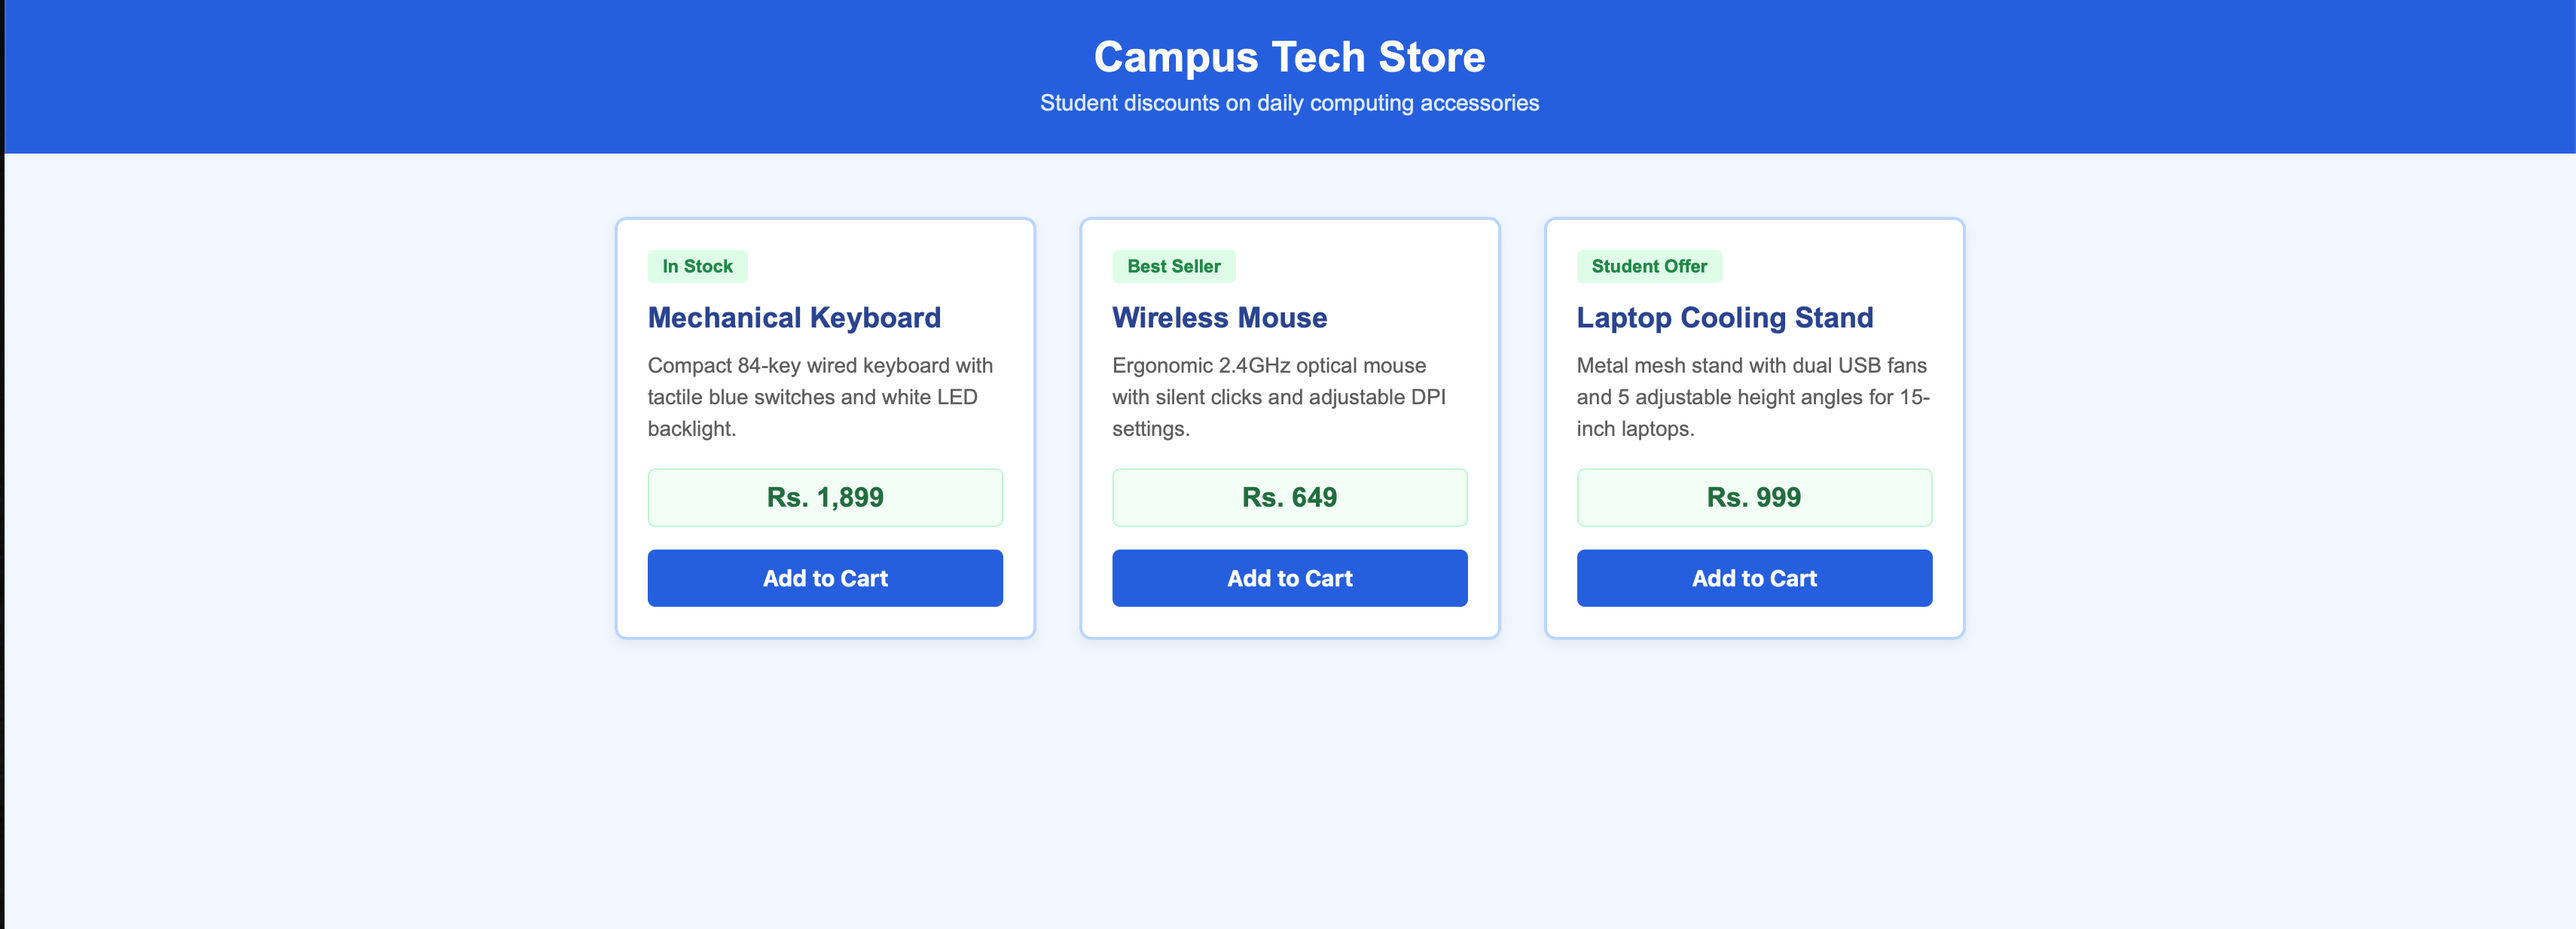
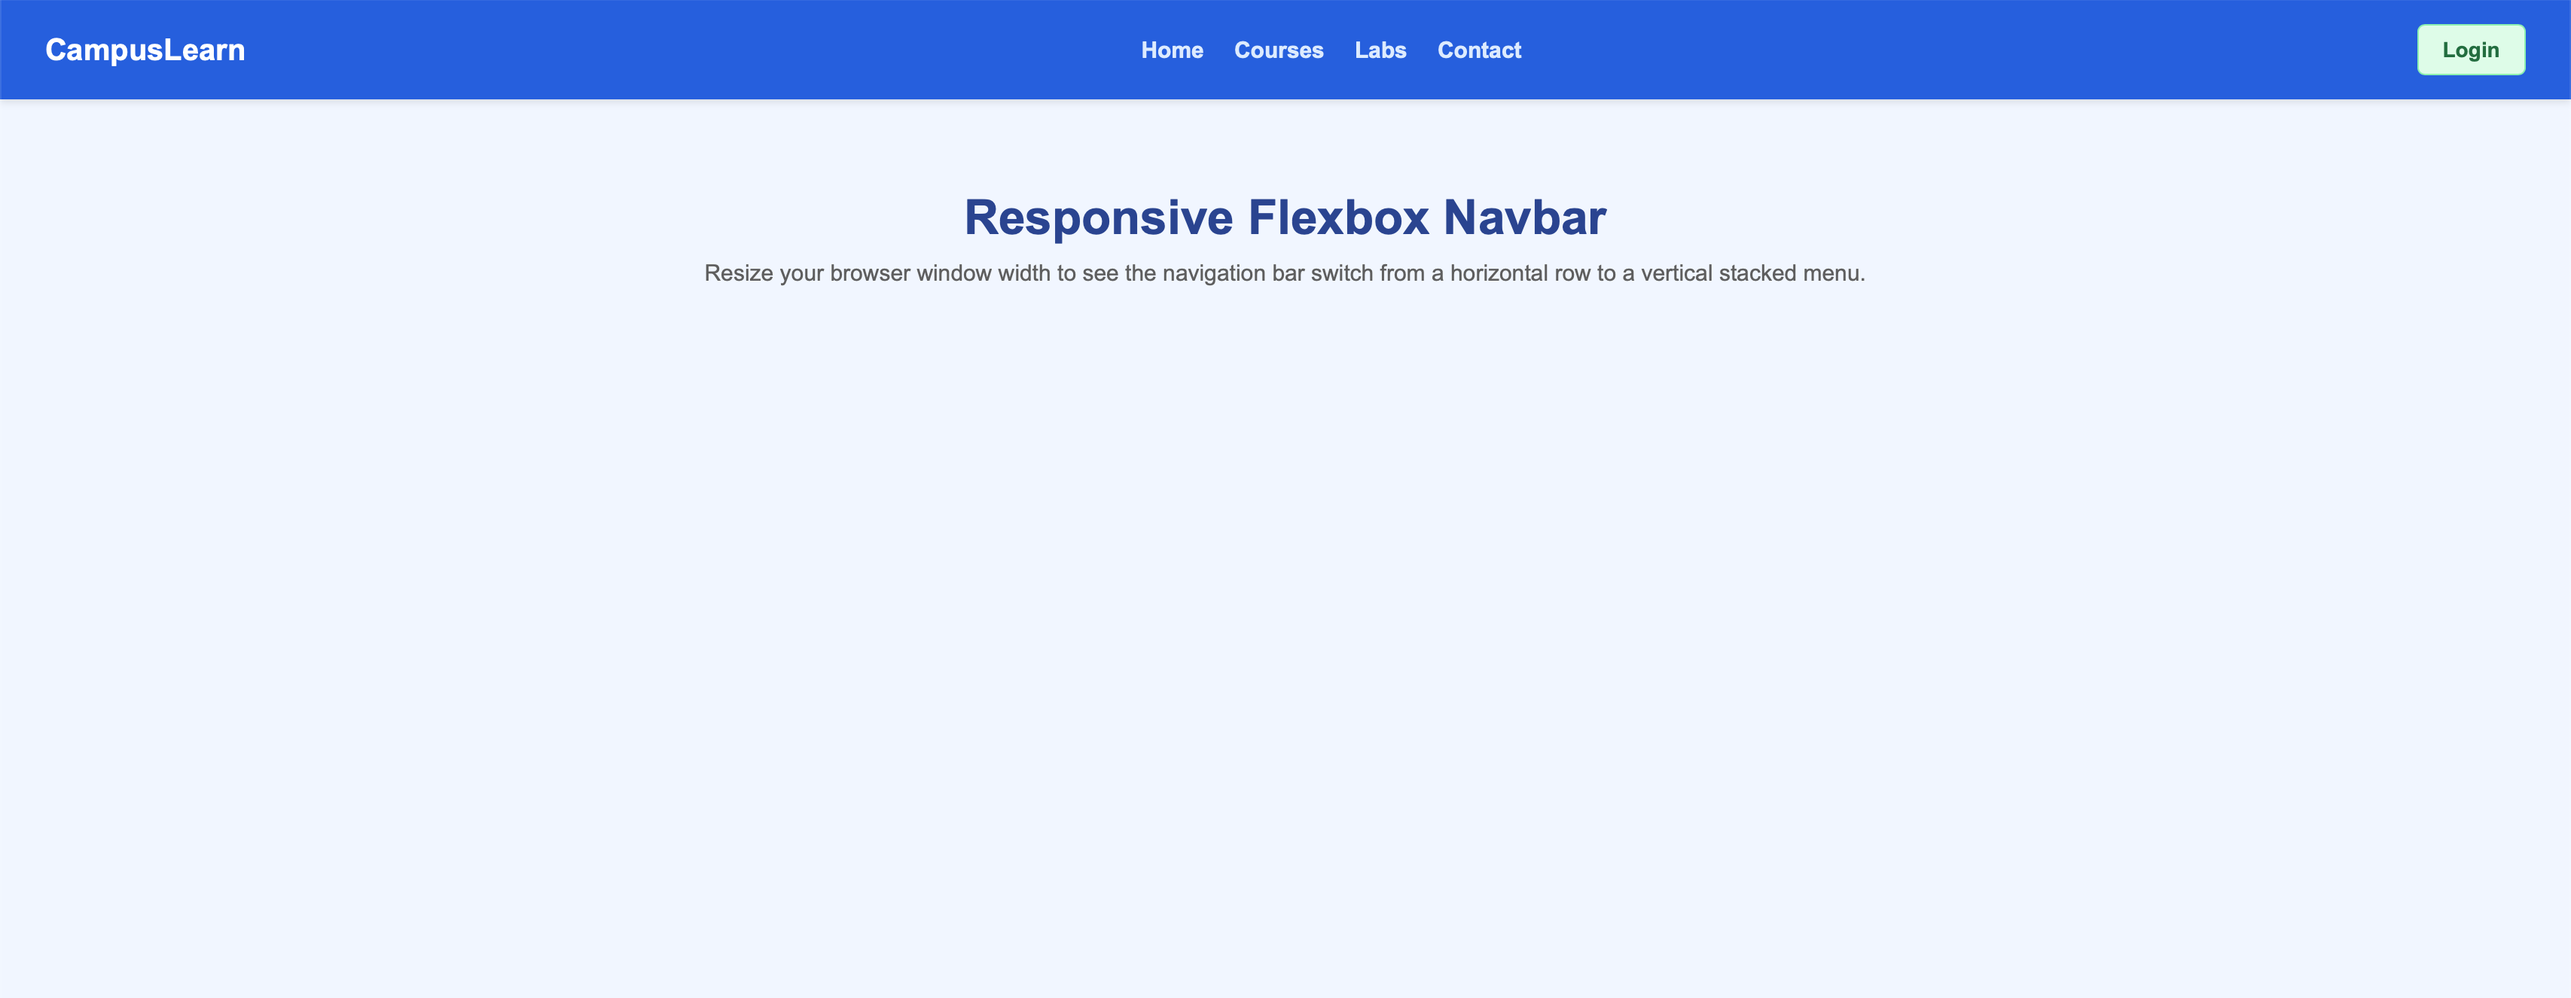
feat(p8): implement responsive flexbox navbar and add screenshot

diff --git a/programme8/style3.css b/programme8/style3.css
@@ -1,0 +1,91 @@
+/* keeps padding and border inside width */
+* {
+    box-sizing: border-box;
+    margin: 0;
+    padding: 0;
+}
+
+body {
+    font-family: Arial, sans-serif;
+    background-color: #f0f6ff;
+    color: #222222;
+}
+
+/* Flexbox bar aligning logo, links, and button in one row */
+.bar {
+    display: flex;
+    justify-content: space-between;
+    align-items: center;
+    background-color: #1a56db;
+    padding: 16px 30px;
+    box-shadow: 0 2px 5px rgba(0, 0, 0, 0.1);
+}
+
+.logo {
+    color: #ffffff;
+    font-size: 20px;
+    font-weight: bold;
+}
+
+/* Flexbox row for links */
+.links {
+    list-style: none;
+    display: flex;
+    gap: 20px;
+}
+
+.links a {
+    color: #dbeafe;
+    text-decoration: none;
+    font-size: 15px;
+    font-weight: bold;
+}
+
+.links a:hover {
+    color: #ffffff;
+}
+
+/* Light green button */
+.btn {
+    background-color: #dcfce7;
+    color: #166534;
+    text-decoration: none;
+    font-size: 14px;
+    font-weight: bold;
+    padding: 8px 16px;
+    border-radius: 5px;
+    border: 1px solid #86efac;
+}
+
+.btn:hover {
+    background-color: #bbf7d0;
+}
+
+.main {
+    text-align: center;
+    padding: 60px 20px;
+}
+
+.main h1 {
+    color: #1e3a8a;
+    margin-bottom: 10px;
+}
+
+.main p {
+    color: #555555;
+    font-size: 15px;
+}
+
+/* Responsive Media Query: stacks items vertically on mobile screens */
+@media (max-width: 650px) {
+    .bar {
+        flex-direction: column;
+        gap: 15px;
+    }
+
+    .links {
+        flex-direction: column;
+        align-items: center;
+        gap: 10px;
+    }
+}

diff --git a/programme8/index3.html b/programme8/index3.html
@@ -1,0 +1,36 @@
+<!DOCTYPE html>
+<html lang="en">
+
+<head>
+    <meta charset="UTF-8">
+    <meta name="viewport" content="width=device-width, initial-scale=1.0">
+    <title>Programme 8 - Responsive Flexbox Navbar</title>
+    <link rel="stylesheet" href="style3.css">
+</head>
+
+<body>
+
+    <!-- Flexbox Navigation Bar -->
+    <header class="bar">
+        <div class="logo">CampusLearn</div>
+
+        <ul class="links">
+            <li><a href="#">Home</a></li>
+            <li><a href="#">Courses</a></li>
+            <li><a href="#">Labs</a></li>
+            <li><a href="#">Contact</a></li>
+        </ul>
+
+        <a href="#" class="btn">Login</a>
+    </header>
+
+    <!-- Main Content -->
+    <div class="main">
+        <h1>Responsive Flexbox Navbar</h1>
+        <p>Resize your browser window width to see the navigation bar switch from a horizontal row to a vertical stacked
+            menu.</p>
+    </div>
+
+</body>
+
+</html>
